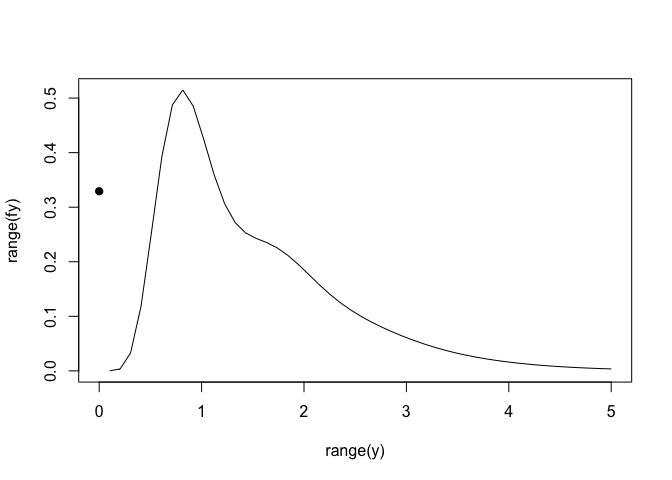
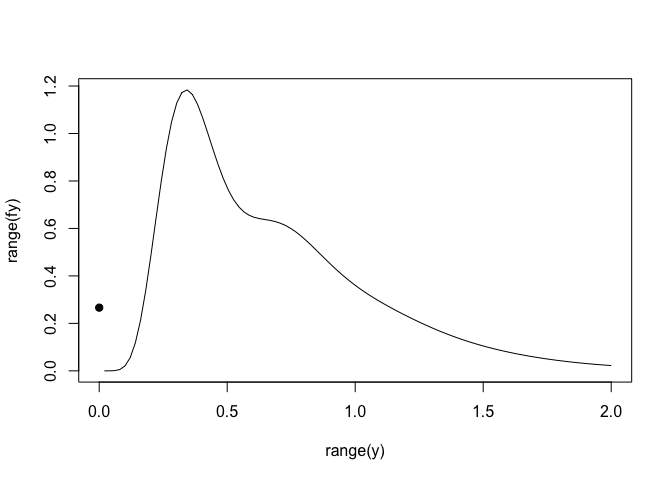
Fixes to README

diff --git a/README.md b/README.md
@@ -98,12 +98,13 @@ tweedie::rtweedie(10, xi = 1.1, mu = 2, phi = 1)
 - plotting accurate density and probability functions; and
 
 ``` r
-twden <- tweedie::tweedie_plot(seq(0, 5, length = 50), 
-                               xi = 1.1, mu = 1, phi = 1)
+twden <- tweedie::tweedie_plot(seq(0, 2, length = 100), 
+                               xi = 1.1, mu = 0.5, phi = 0.45)
 ```
 
-<img src="man/figures/README-TWplots-1.png" width="100%" /> \* computing
-the quantile residuals:
+<img src="man/figures/README-TWplots-1.png" width="100%" />
+
+- computing the quantile residuals:
 
 ``` r
 library(tweedie)
